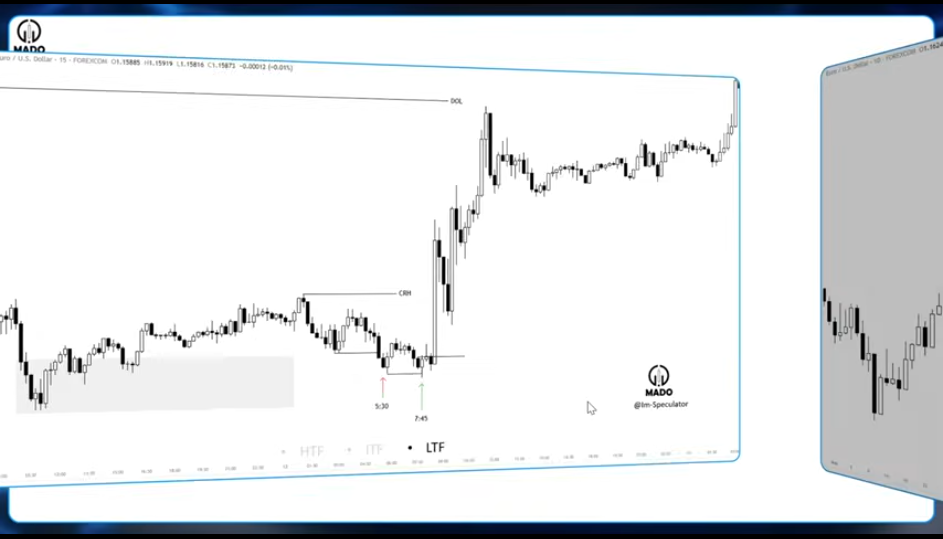
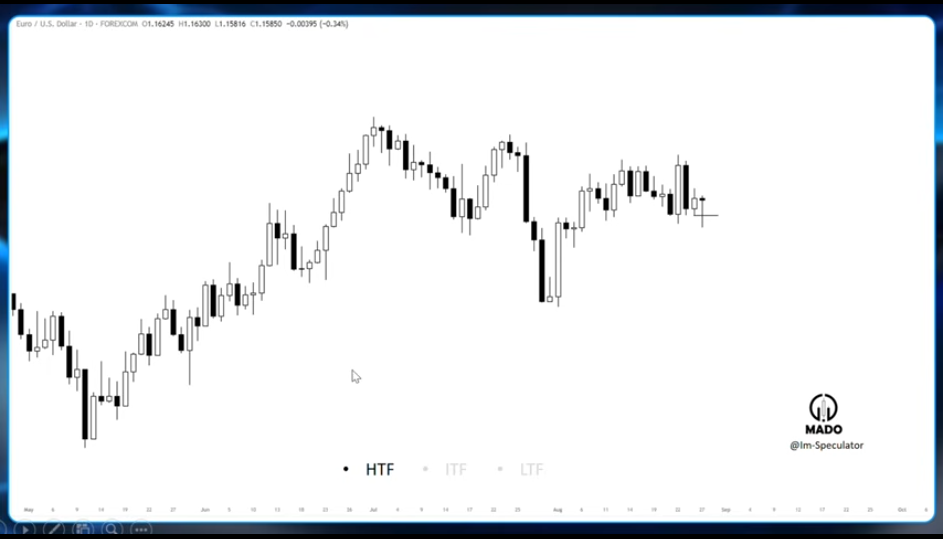
docs(charter-3): review captures for ambiguity, fix or remove weak ones
- Remove 3 blank title-only frames (01:04, 07:37, 10:32) — section
  divider cards (HTF/LTF/Examples openers) with no diagram.
- Fix 1 mid-transition capture (14:47) that landed on an unsettled
  3D carousel-flip frame — now shows the settled HTF daily chart.
- No ad frames or lag-mismatches found this episode.

diff --git a/docs/charter-3.md b/docs/charter-3.md
@@ -15,7 +15,6 @@
 
 ## 🧭 Higher Time Frame (HTF) - Análisis del Entorno Macro
 * **[00:01:04]** Todo análisis comienza en el HTF para comprender el entorno del mercado: dónde está el precio, a dónde quiere ir, cómo llegará y por qué.
-  ![Frame 00:01:04](assets/charter-3/00-01-04.png)
 
 ### Elementos Clave a Analizar en HTF:
 1. **Order Flow (Flujo de Órdenes):** **[00:01:23]** Identifica la dirección prevalente de la entrega del precio y la estructura del mercado.
@@ -59,7 +58,6 @@
 
 ## 🔬 Lower Time Frame (LTF) - Ejecución y Gestión
 * **[00:07:37]** El marco temporal bajo es donde la teoría y el análisis se convierten en acción y ejecución concreta.
-  ![Frame 00:07:37](assets/charter-3/00-07-37.png)
 
 ### Los 4 Pilares de la Ejecución en LTF:
 1. **Time (Alineación Temporal):** **[00:07:52]** Las entradas se deben ejecutar dentro de horas clave fijadas por las *Kill Zones*:
@@ -79,7 +77,6 @@
 
 ### Ejemplo 1: EUR/USD Diario a LTF (Sincronización Completa)
 * **[00:10:32] HTF (Diario):** Order Flow alcista (rechaza bajos, rompe altos). Cierre dentro del rango previo (expectativa alcista). *Draw on liquidity* en el alto de la vela previa. Zona de soporte en FVG u Order Block.
-  ![Frame 00:10:32](assets/charter-3/00-10-32.png)
 * **[00:12:05] ITF:** Vela de Asia (9:00 p.m.) y vela de Londres (1:00 a.m.). Londres no alcanza el nivel clave (bloque de rechazo) pero genera un *Turtle Soup*. Se define la vela CRT. Expectativa: purga del bajo de la vela CRT retesteando el bloque refinado.
   ![Frame 00:12:05](assets/charter-3/00-12-05.png)
 * **[00:13:17] LTF:** El precio purga el bajo a las 5:30 a.m. (fuera de Kill Zone, por lo que no se opera). A las 7:45 a.m. (durante New York Kill Zone), el precio purga el bajo de corto plazo y cierra por encima.
